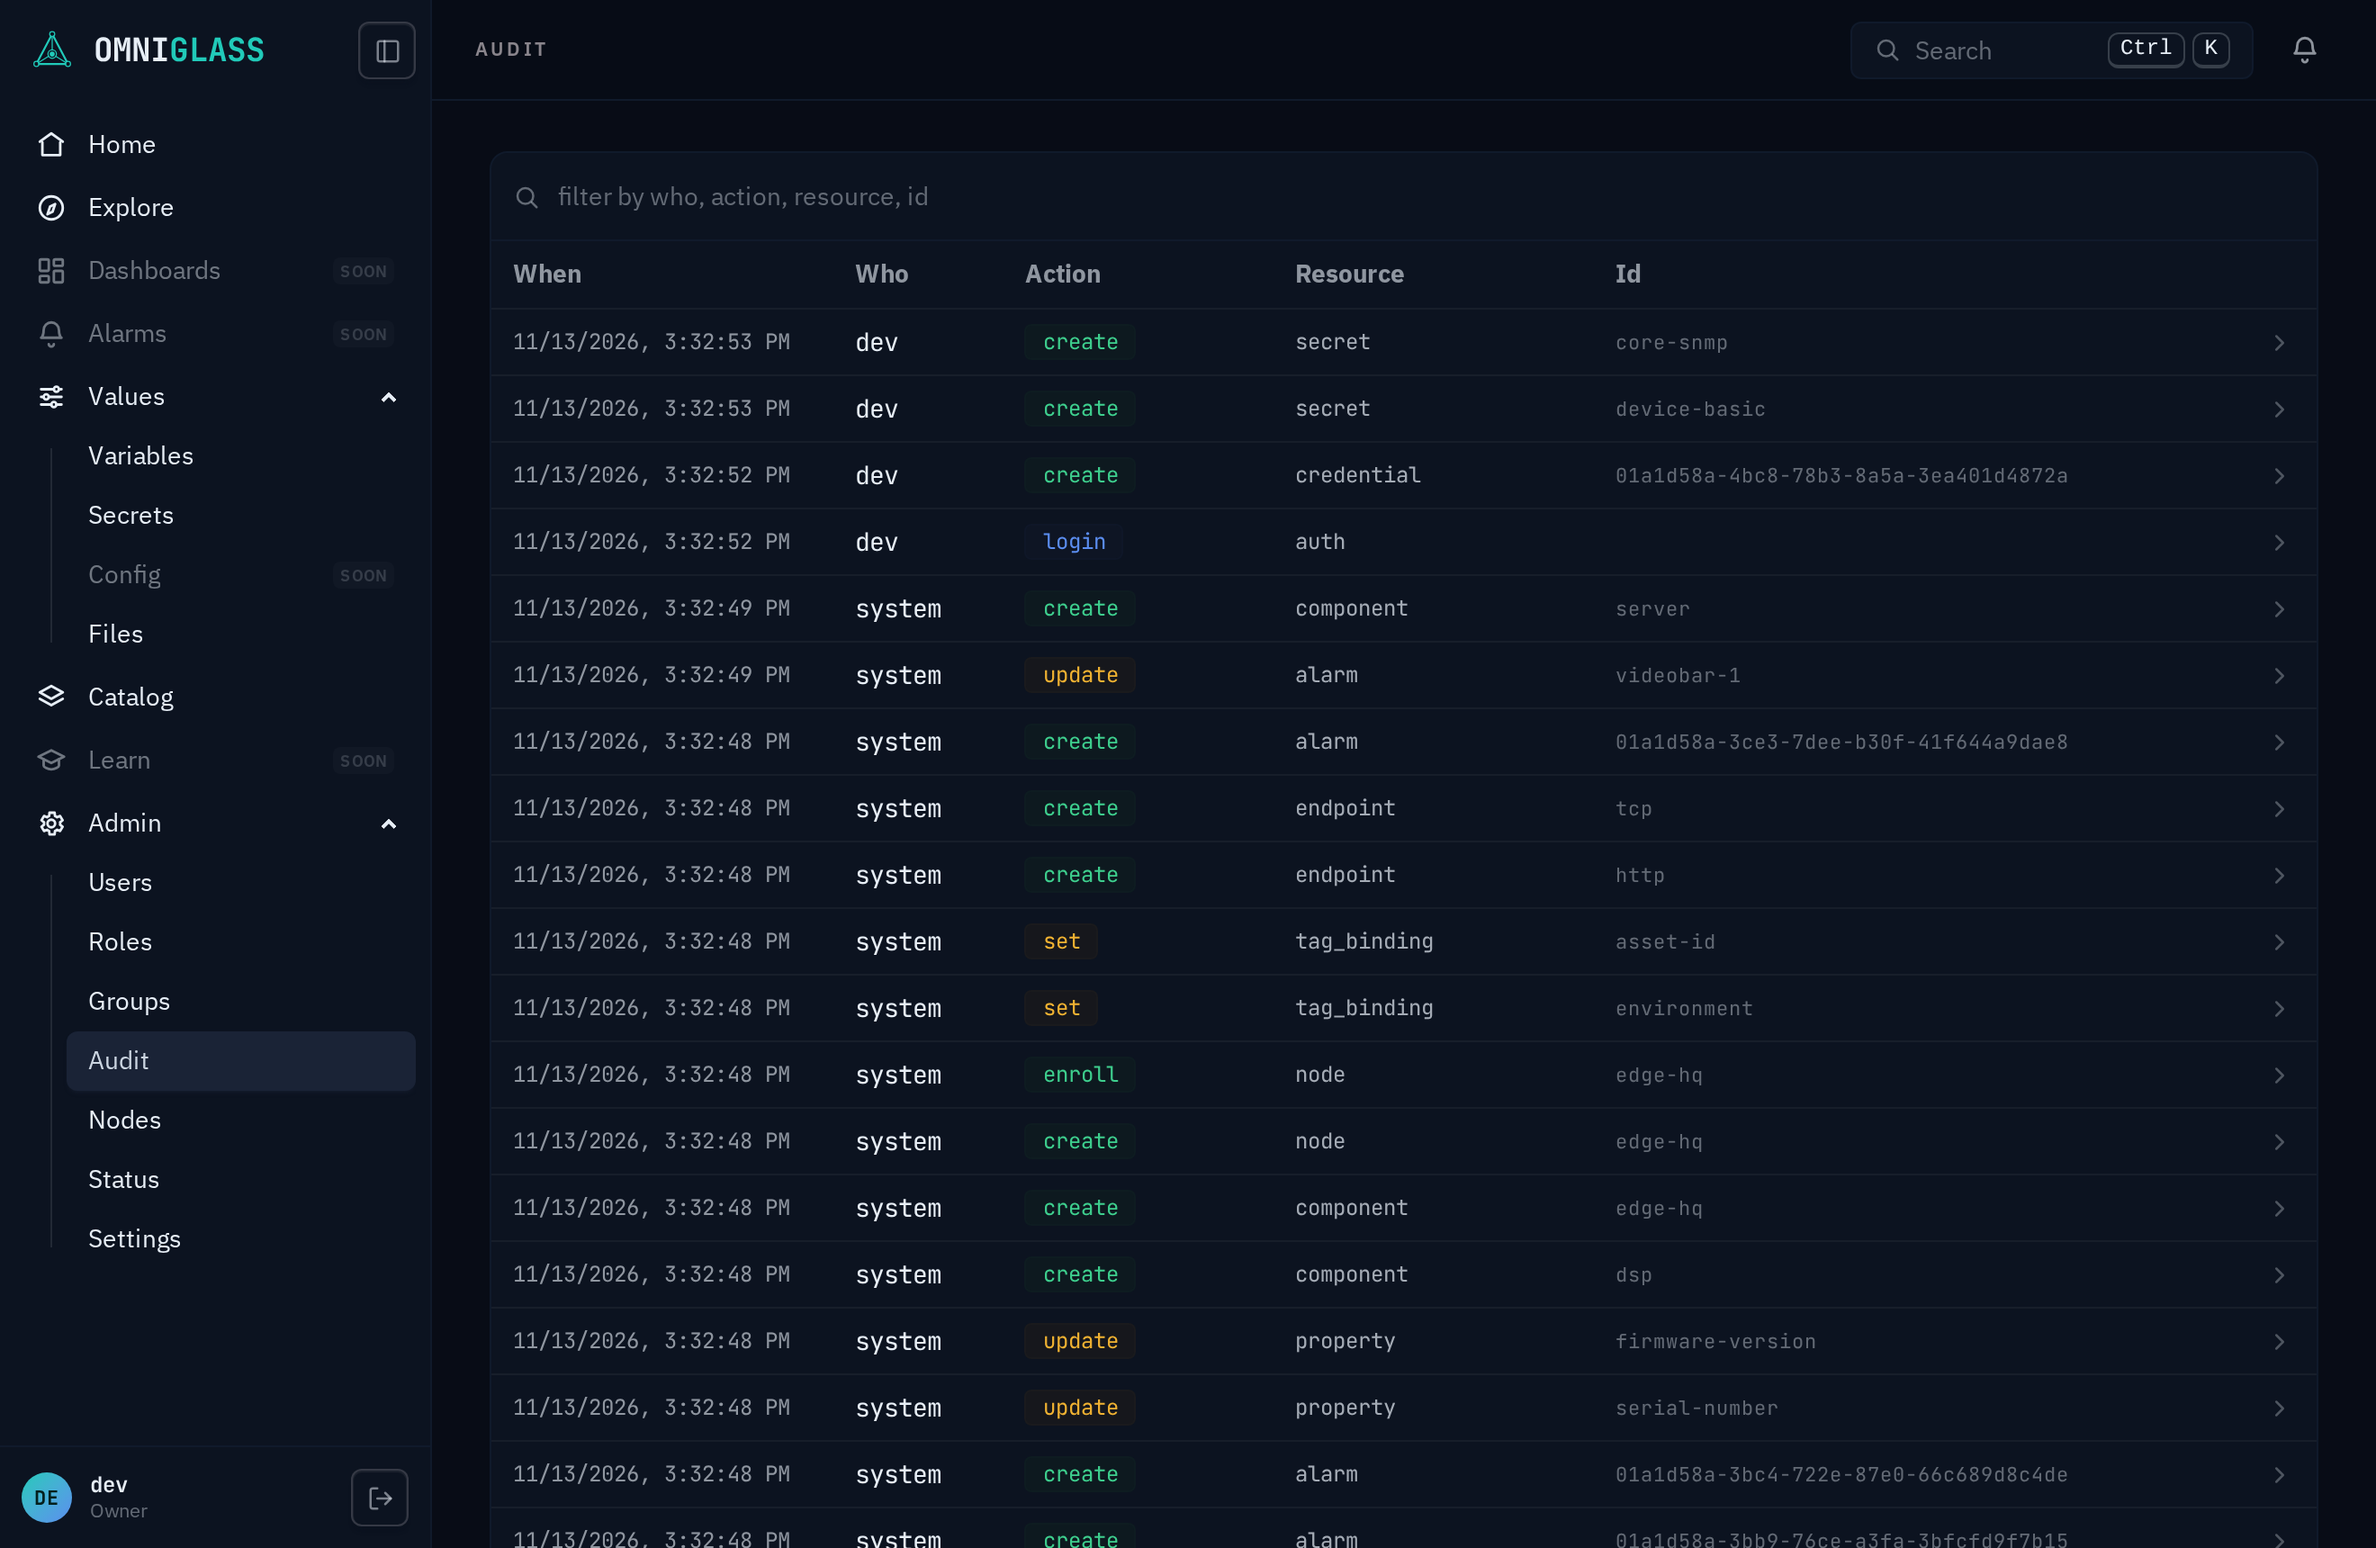
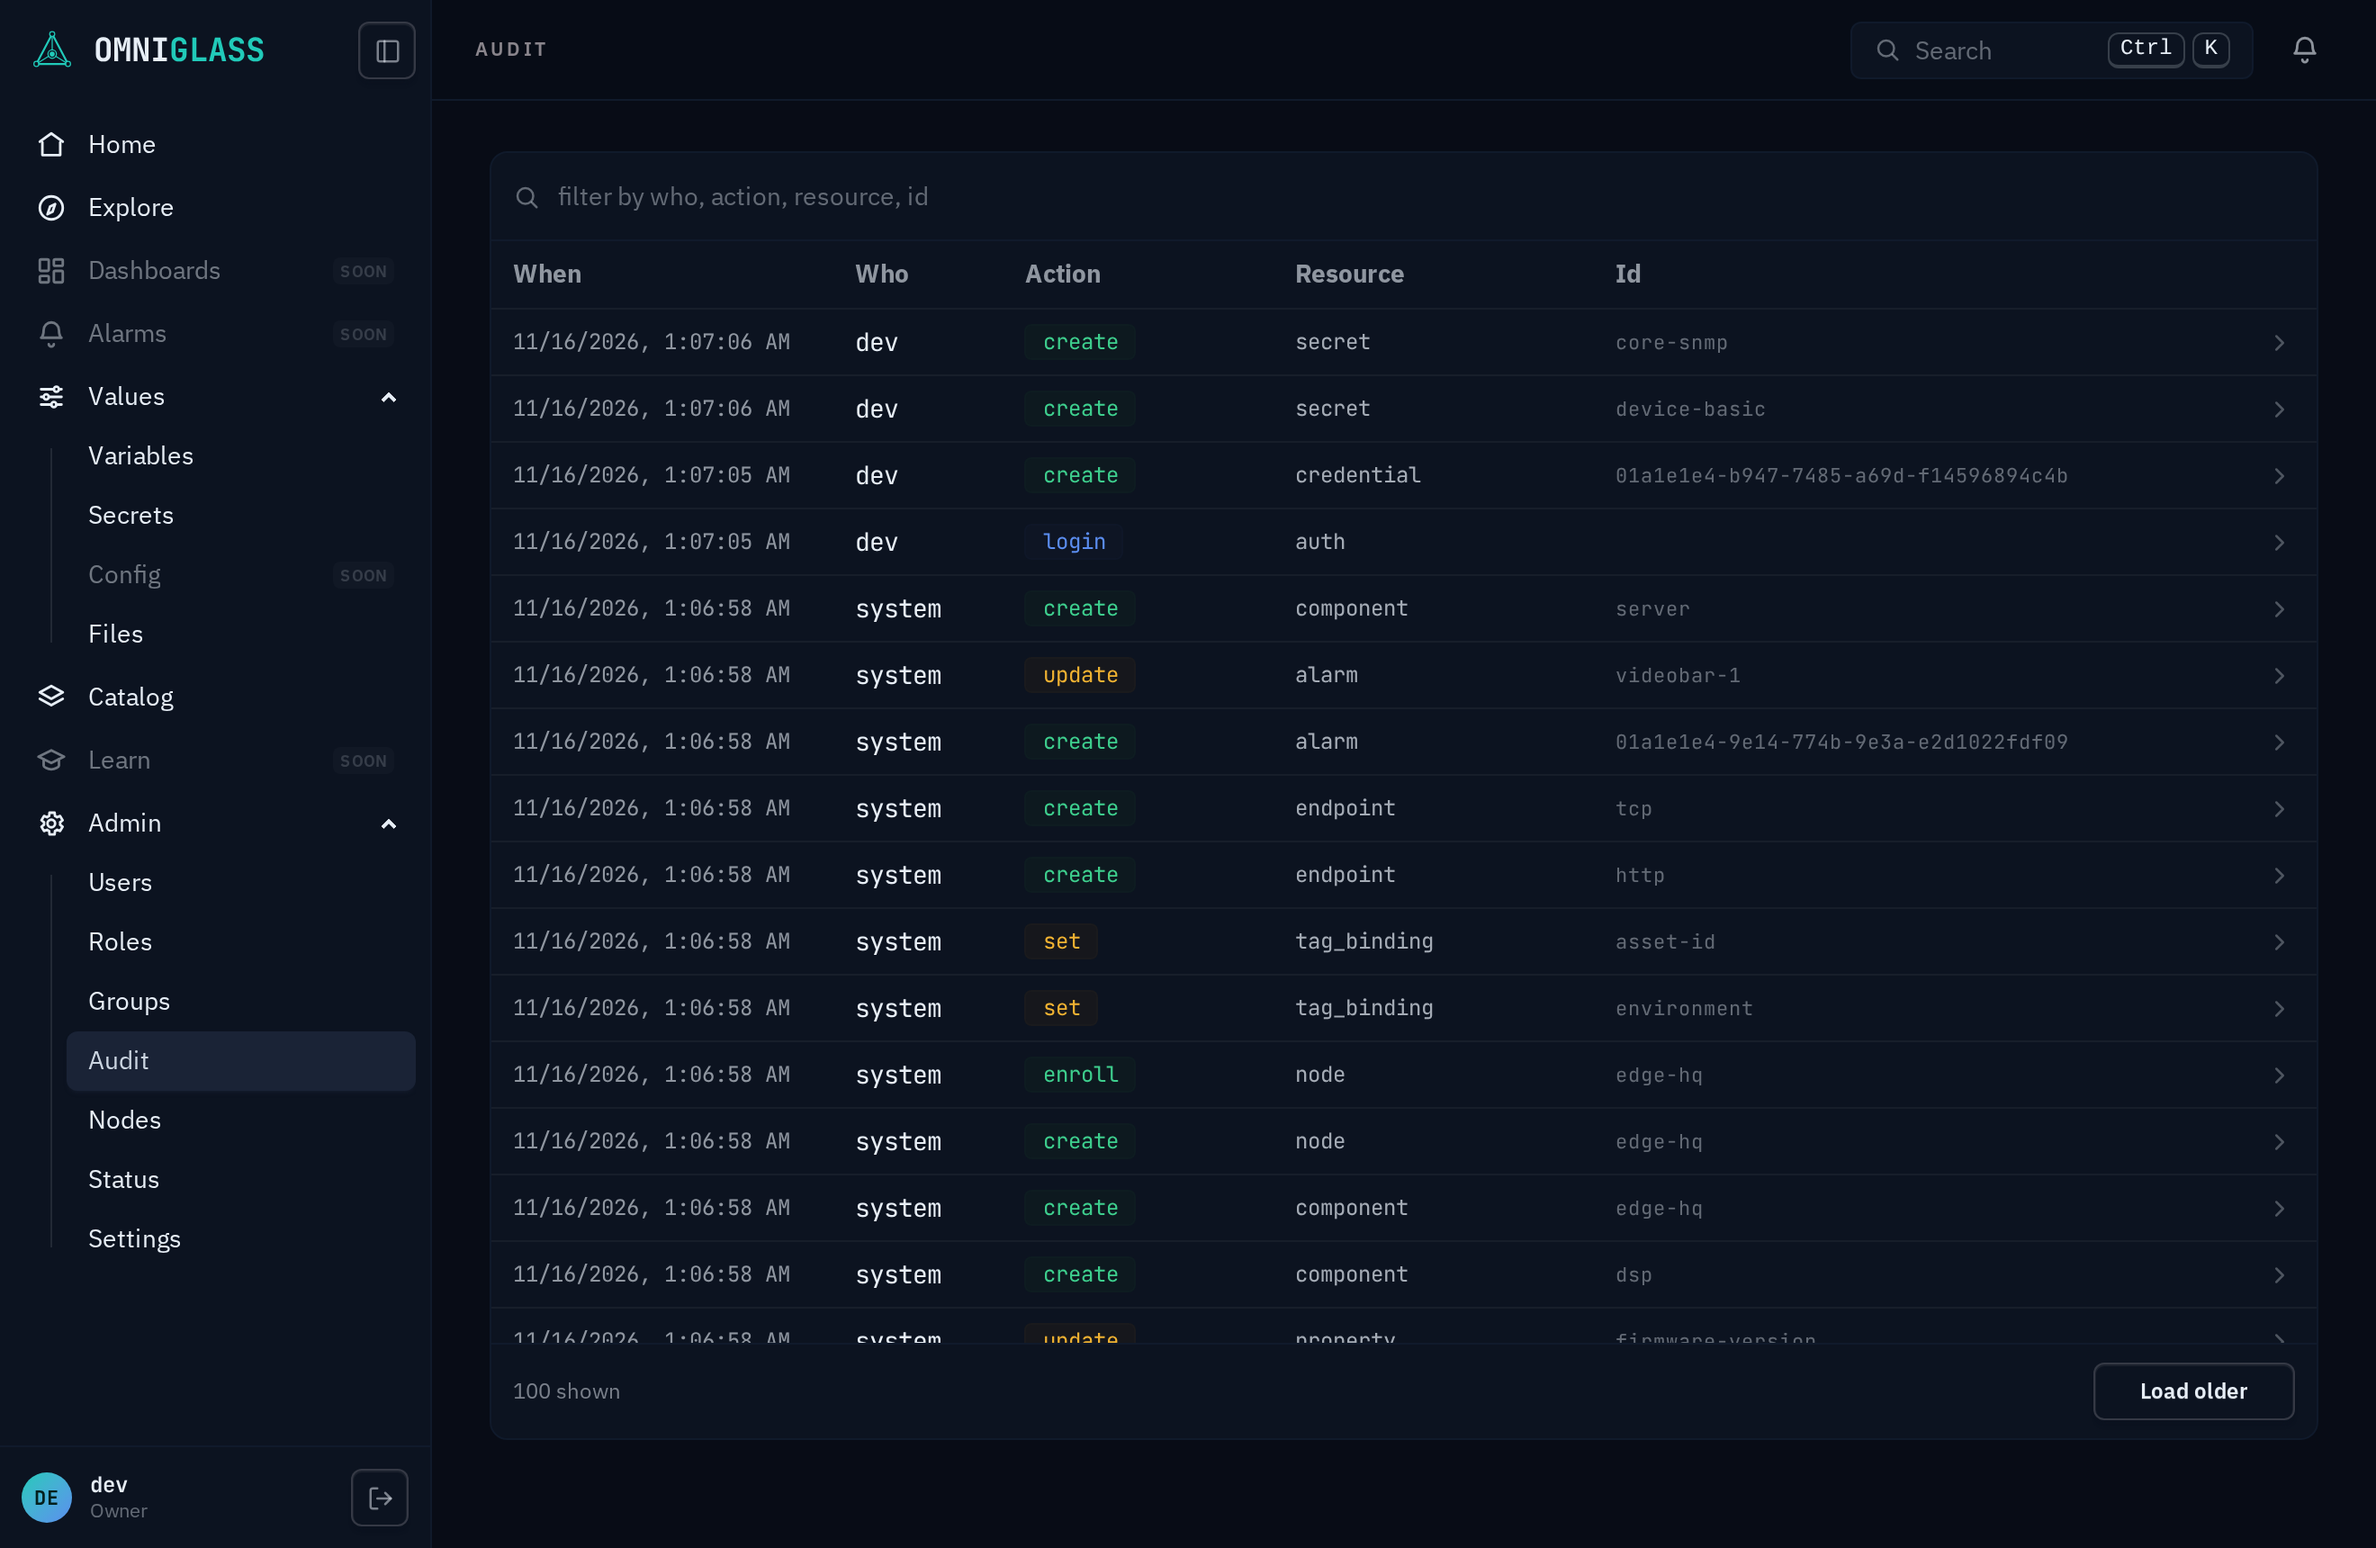
fix: the audit list scrolls inside its card, its footer pinned (#2007)
* fix: the audit list scrolls inside its card, its footer pinned

A first page of 100 outgrew the 12-row skeleton and pushed the count and
Load older off screen (probe route:/audit 0.102). The page turns on the
list's fill mode inside a viewport-sized box; the console scrolls the
document, so fill needs that definite height to scroll internally.

Part of #1461

* docs: recapture the audit shots with the list scrolling in its card

diff --git a/web/src/pages/Audit.tsx b/web/src/pages/Audit.tsx
@@ -182,39 +182,47 @@ export default function Audit() {
     return r.length ? r[r.length - 1].ts : undefined;
   };
 
+  // The document scrolls, so the list fills a box of definite height: the top
+  // bar, the main padding and room for the lab banner come off the viewport,
+  // and the rows scroll inside it (#1461).
   return (
-    <FlatList<AuditEvent>
-      config={{
-        entity: { name: "audit", plural: "events" },
-        rows,
-        loading,
-        loadingRows: AUDIT_LOADING_ROWS,
-        error,
-        filterKeys: auditFilterKeys,
-        filterPlaceholder: "filter by who, action, resource, id",
-        columns,
-        empty: "No events yet.",
-        detail: (e) => ({
-          title: <span class="font-data text-sm" title={e.resource_id || undefined}>{e.verb} {e.resource}{resourceLabel(e) ? ` ${resourceLabel(e)}` : ""}</span>,
-          body: <AuditDetail e={e} />,
-          wide: true,
-        }),
-        footer: ({ shown, total, filtering }) => (
-          <>
-            <span>
-              {shown}
-              <Show when={filtering}> of {total} loaded</Show> shown
-            </span>
-            <Button
-              class="min-w-28 text-xs"
-              disabled={done() || loadingOlder() || loading()}
-              onClick={() => load(oldest())}
-            >
-              {loadingOlder() ? "Loading…" : done() ? "No older events" : "Load older"}
-            </Button>
-          </>
-        ),
-      }}
-    />
+    <div class="h-[calc(100dvh-9rem)] min-h-96">
+      <FlatList<AuditEvent>
+        config={{
+          entity: { name: "audit", plural: "events" },
+          rows,
+          loading,
+          loadingRows: AUDIT_LOADING_ROWS,
+          // A page of 100 is taller than the skeleton: scrolling the rows inside
+          // the card keeps the footer where the first paint put it (#1461).
+          fill: true,
+          error,
+          filterKeys: auditFilterKeys,
+          filterPlaceholder: "filter by who, action, resource, id",
+          columns,
+          empty: "No events yet.",
+          detail: (e) => ({
+            title: <span class="font-data text-sm" title={e.resource_id || undefined}>{e.verb} {e.resource}{resourceLabel(e) ? ` ${resourceLabel(e)}` : ""}</span>,
+            body: <AuditDetail e={e} />,
+            wide: true,
+          }),
+          footer: ({ shown, total, filtering }) => (
+            <>
+              <span>
+                {shown}
+                <Show when={filtering}> of {total} loaded</Show> shown
+              </span>
+              <Button
+                class="min-w-28 text-xs"
+                disabled={done() || loadingOlder() || loading()}
+                onClick={() => load(oldest())}
+              >
+                {loadingOlder() ? "Loading…" : done() ? "No older events" : "Load older"}
+              </Button>
+            </>
+          ),
+        }}
+      />
+    </div>
   );
 }

diff --git a/web/src/pages/Audit.test.tsx b/web/src/pages/Audit.test.tsx
@@ -63,6 +63,20 @@ describe("Audit page", () => {
     expect(screen.queryAllByTestId("list-loading-row")).toHaveLength(0);
   });
 
+  // A first page longer than the skeleton must not push the footer down the
+  // page (#1461): the rows scroll inside the card, the footer stays below them.
+  it("scrolls the rows inside the list, the footer pinned outside that region", async () => {
+    render(() => <Audit />);
+    const table = (await screen.findByText("login")).closest("table")!;
+    const region = table.parentElement!;
+    expect(region.classList.contains("overflow-y-auto")).toBe(true);
+    expect(region.contains(screen.getByText("No older events"))).toBe(false);
+    // The document scrolls, not the shell, so the list only fills a box with a
+    // definite height: without one it grows with its rows and the footer moves.
+    const shell = table.closest(".og-stack")!;
+    expect(shell.parentElement!.className).toMatch(/\bh-\[calc\(100dvh/);
+  });
+
   it("renders events with actor, verb, and resource", async () => {
     const { findByText, getByText } = render(() => <Audit />);
     expect(await findByText("login")).toBeTruthy();

diff --git a/web/src/components/ListShell.tsx b/web/src/components/ListShell.tsx
@@ -30,8 +30,7 @@ export default function ListShell<T>(props: {
   // Fill mode (optional): the shell stretches to its parent's fixed height and
   // hands the surplus to the body, whose scroll region scrolls internally
   // instead of growing the page. The FilterBar header (and any footer) stay
-  // pinned. Off (the default), the shell grows with content exactly as every
-  // list page does today.
+  // pinned. Off (the default), the shell grows with content.
   fill?: boolean;
   children: (filtered: Accessor<T[]>, chips: Accessor<Chip[]>) => JSX.Element;
 }) {

diff --git a/web/src/components/FlatList.tsx b/web/src/components/FlatList.tsx
@@ -81,8 +81,8 @@ export type FlatConfig<T> = {
   onChips?: (chips: Chip[]) => void;
   // Fill mode (optional, forwarded to ListShell): for a page that caps its own
   // height, the table region takes the surplus and scrolls internally under
-  // sticky column headers instead of growing the page. Off (every shipped page
-  // today), the list grows with content exactly as before.
+  // sticky column headers instead of growing the page (the audit trail, whose
+  // first page outgrows its skeleton). Off, the list grows with content.
   fill?: boolean;
 };
 

diff --git a/docs/src/content/docs/contributing/design-system.md b/docs/src/content/docs/contributing/design-system.md
@@ -50,7 +50,10 @@ CLI is generated the same way. `make gen` regenerates all of it; a non-empty dif
   the primary create), the tree and flattened body rendering, and the stacked blades. A page that
   opens a row in place (Files) also gets the full-page detail and the create/edit `Drawer`. There
   is no summary row above a table: the KPI chip rows retired (ADR-0137). Adding an entity of
-  this class is a data layer + a config + a route (see the `add-inventory-view` skill).
+  this class is a data layer + a config + a route (see the `add-inventory-view` skill). A list
+  whose loaded page outgrows its first paint (the audit trail) sets the shell's `fill` and sits in
+  a box of definite height, so its rows scroll under sticky headers and its footer stays put; the
+  console scrolls the document, so `fill` with no sized box around it grows like any other list.
 - **Lists render in server order; the SQL rule is the ordering primitive.** A registry list the
   API serves arrives ordered by `order by label nulls last, name` (a row with no label last,
   otherwise by label, then by name), and the page renders the rows as received: `FlatList` sorts

diff --git a/docs/src/content/docs/guides/admin/audit.md b/docs/src/content/docs/guides/admin/audit.md
@@ -37,7 +37,8 @@ denied**), so you can spot a brute-force attempt; attempts on usernames that do 
 The page uses the same faceted search as the inventory lists: filter by **who**, **action**, **resource**, or
 **id** (type a term for a quick actor search, or `action:login` to pin a facet), and combine chips to narrow.
 Filtering runs over the rows already loaded; **Load older** pages further back in time, so a search that comes
-up short is a cue to load older and look deeper.
+up short is a cue to load older and look deeper. The rows scroll inside the list's card, so the count and
+**Load older** stay at its foot however many pages you have loaded.
 
 The **Id** column shows the resource's **name** (a principal's username), resolved from the row's own
 change images; hovering it reveals the stable uuid the trail actually stores, which is what keeps a row

diff --git a/docs/src/content/build-log/2026-11-16-the-audit-list-scrolls-inside-its-card.md b/docs/src/content/build-log/2026-11-16-the-audit-list-scrolls-inside-its-card.md
@@ -1,0 +1,13 @@
+---
+title: "The audit list scrolls inside its card (#1461)"
+date: 2026-11-16
+refs: [1461, 1955, 2003]
+---
+
+The audit trail held its space with 12 skeleton rows (#1955), but a first page holds 100, so the
+loaded list still pushed its footer (the count and **Load older**) off the bottom of the screen: the
+probe scored `route:/audit` at 0.102 against a 0.1 budget once the lab banner's shift was gone (#2003).
+The page now turns on the list's fill mode inside a box sized to the viewport, so the rows scroll
+under sticky column headers and the footer stays where the first paint put it. Fill mode needs that
+box: the console scrolls the document, so a list with no definite height around it grows with its
+rows. `route:/audit` now reads 0.002 to 0.004 over three runs, with no footer among the shift sources.
